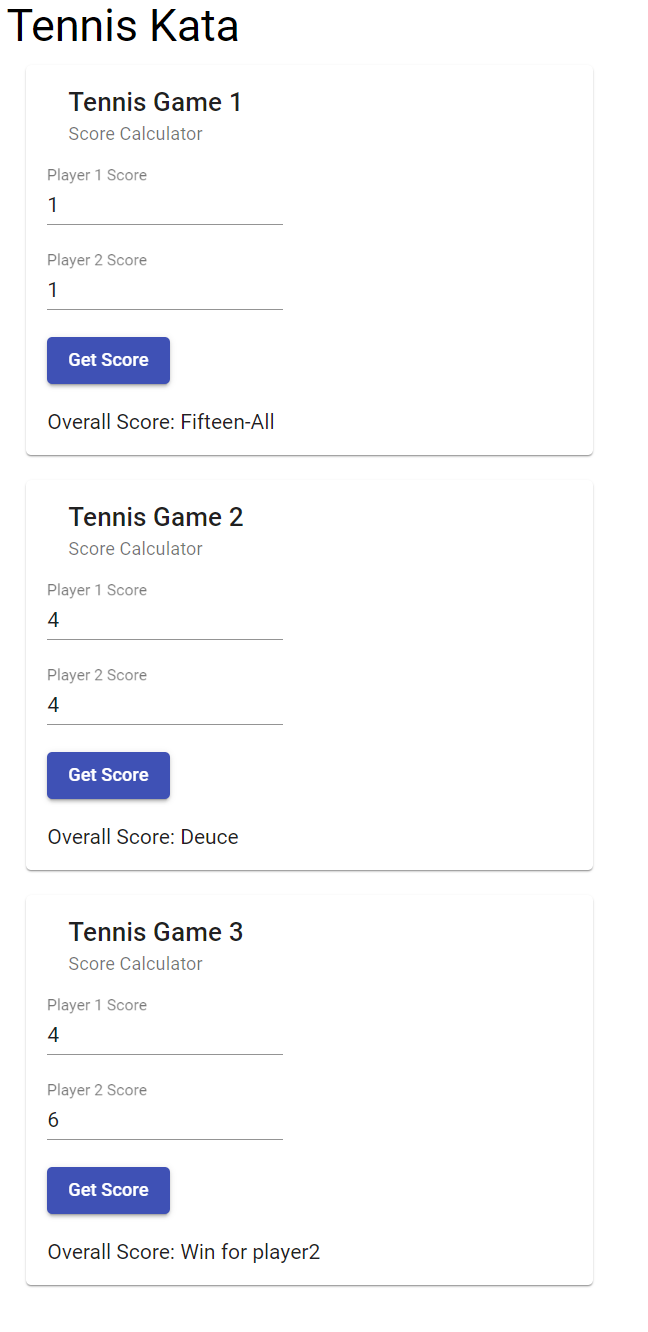
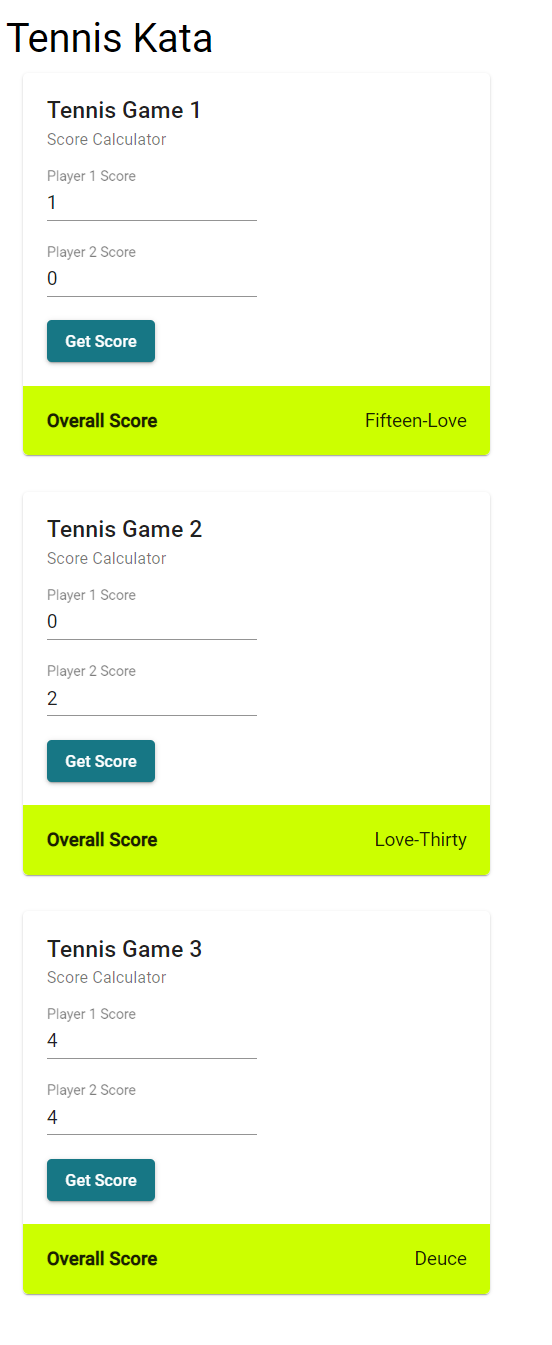
e - readme update to show latest screenshot and update current status

Changed region(s): [[0.0308, 0.3694, 0.8931, 0.985], [0.0308, 0.1847, 0.8931, 0.3386], [0.0, 0.0, 0.3696, 0.1539]]

diff --git a/Tennis-Refactoring-Kata/angular/README.md b/Tennis-Refactoring-Kata/angular/README.md
@@ -11,16 +11,17 @@
 
 1. From this `angular` directory, on the command line run `ng serve -o --watch`
 
-## Current Implementation Status
+## Current Implementation
 
 - Components for tennis games 1, 2, and 3 and the corresponding tests are in `src/app`
 - Html/gui functionality to get a score from either tennis game 1, 2, or 3
 - Updated unit tests to interact with DOM instead of calling class methods
+- Styled each game with material design and scss to make GUI look better
+- Wrote unit tests against important look and feel aspects of the web page. Now the kata allows you to refactor the ts, angular, html, and css product code all under a fast suite of unit tests that cover it all.
+- Added unique html and css code smells to each tennis game for more refactoring opportunities
 
 ## Future Plans
 
-- Style each game with material design and scss to make GUI look better
-- Write unit tests against important look and feel aspects of the web page. Now the kata allows you to refactor the ts, angular, html, and css product code all under a fast suite of unit tests that cover it all.
 - For each game, test drive all [ZOMBIE cases](https://trello.com/c/5EyJyuzJ/242-test-driven-development-guided-by-zombies) 
 
 
